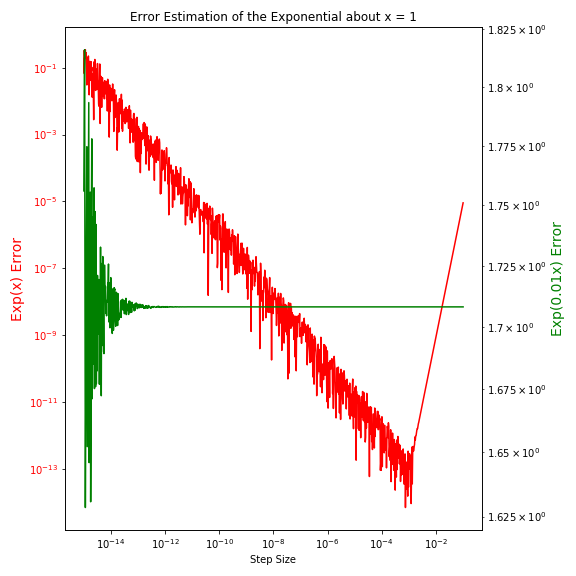
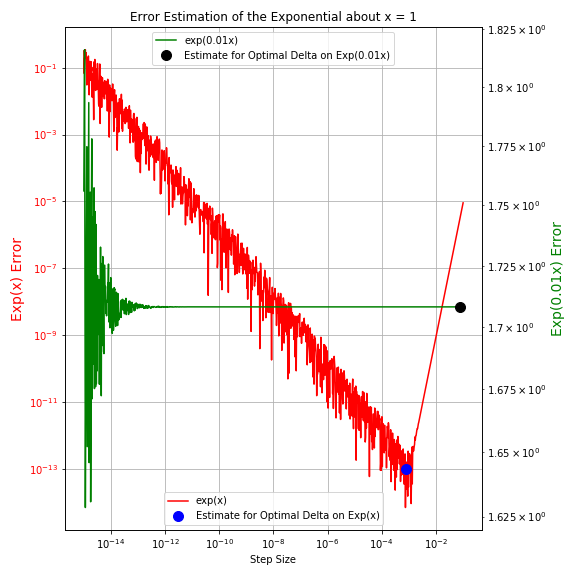
Update

diff --git a/PSET1/PSET1_Q1a_CompPhys.py b/PSET1/PSET1_Q1a_CompPhys.py
@@ -32,11 +32,6 @@ d1_Norm = (y04 - 8*y02 + 8*y01 - y03)/(12*dx)
 d1_Stretched = (y14 - 8*y12 + 8*y11 - y13)/(12*dx)
 
 
-d1_Stretched_Optim = (func(x0*0.01 - 2*(0.0758)) - 8*func(x0*0.01 - (0.0758)) + 8*func(x0*0.01 + (0.0758)) - func(x0*0.01 + 2*(0.0758)))/(12*(0.0758))
-d1_Norm_Optim = (func(x0 - 2*0.000758) - 8*func(x0 - (7.58 * 10**(-4))) + 8*func(x0 + (7.58 * 10**(-4))) - func(x0 + 2*(7.58 * 10**(-4))))/(12*(7.58 * 10**(-4)))
-
-print('Error on Exp(0.01x) is ', np.abs(d1_Stretched_Optim - np.exp(x0)), 'at a delta of ', 0.0758)
-print('Error on Exp(x) Exp is ', np.abs(d1_Norm_Optim - np.exp(x0)), 'at a delta of ', (7.58 * 10**(-4)))
 
 
 fig, ax1 = plt.subplots(figsize=(8, 8))
@@ -52,22 +47,9 @@ ax1.tick_params(axis="y", labelcolor='red')
 ax2.set_ylabel('Exp(0.01x) Error', color = 'green', fontsize = 14)
 ax2.tick_params(axis="y", labelcolor='green')
 
-
-xNorm = [0.000758]
-yNorm = [9.725553695716371* 10**(-14)]
-
-xStretch = [(0.0758)]
-yStretch = [1.7082327736073493]
-
-ax1.plot(xNorm, yNorm, "o", color="blue", markersize=10, label='Estimate for Optimal Delta on Exp(x)')
-ax2.plot(xStretch, yStretch, "o", color="black", markersize=10, label='Estimate for Optimal Delta on Exp(0.01x)')
-
 plt.title('Error Estimation of the Exponential about x = 1')
 fig.tight_layout()
 
-ax1.grid(True)
-ax1.legend(loc = 'lower center')
-ax2.legend(loc='upper center')
 plt.savefig('ErrorEst_Q1.png')
 plt.show()
 

diff --git a/PSET1/PSET1_Q3_CompPhys.py b/PSET1/PSET1_Q3_CompPhys.py
@@ -1,0 +1,16 @@
+# -*- coding: utf-8 -*-
+"""
+Created on Wed Sep 14 11:09:13 2022
+
+@author: Yacine Benkirane
+Solution to Q3 of PSET1 
+Comp Physics at McGill University: PHYS 512
+"""
+
+#Litle Easter Egg
+#
+#import webbrowser
+#webbrowser.open("https://www.youtube.com/watch?v=0saZiLV7-7E&ab_channel=LaurelCanyonAnimalCompany", new=1)
+#
+
+

diff --git a/PSET1/PSET1_Q4_CompPhys.py b/PSET1/PSET1_Q4_CompPhys.py
@@ -1,0 +1,9 @@
+# -*- coding: utf-8 -*-
+"""
+Created on Wed Sep 14 11:13:35 2022
+
+@author: Yacine Benkirane
+Solution to Q4 of PSET1 
+Comp Physics at McGill University: PHYS 512
+"""
+
